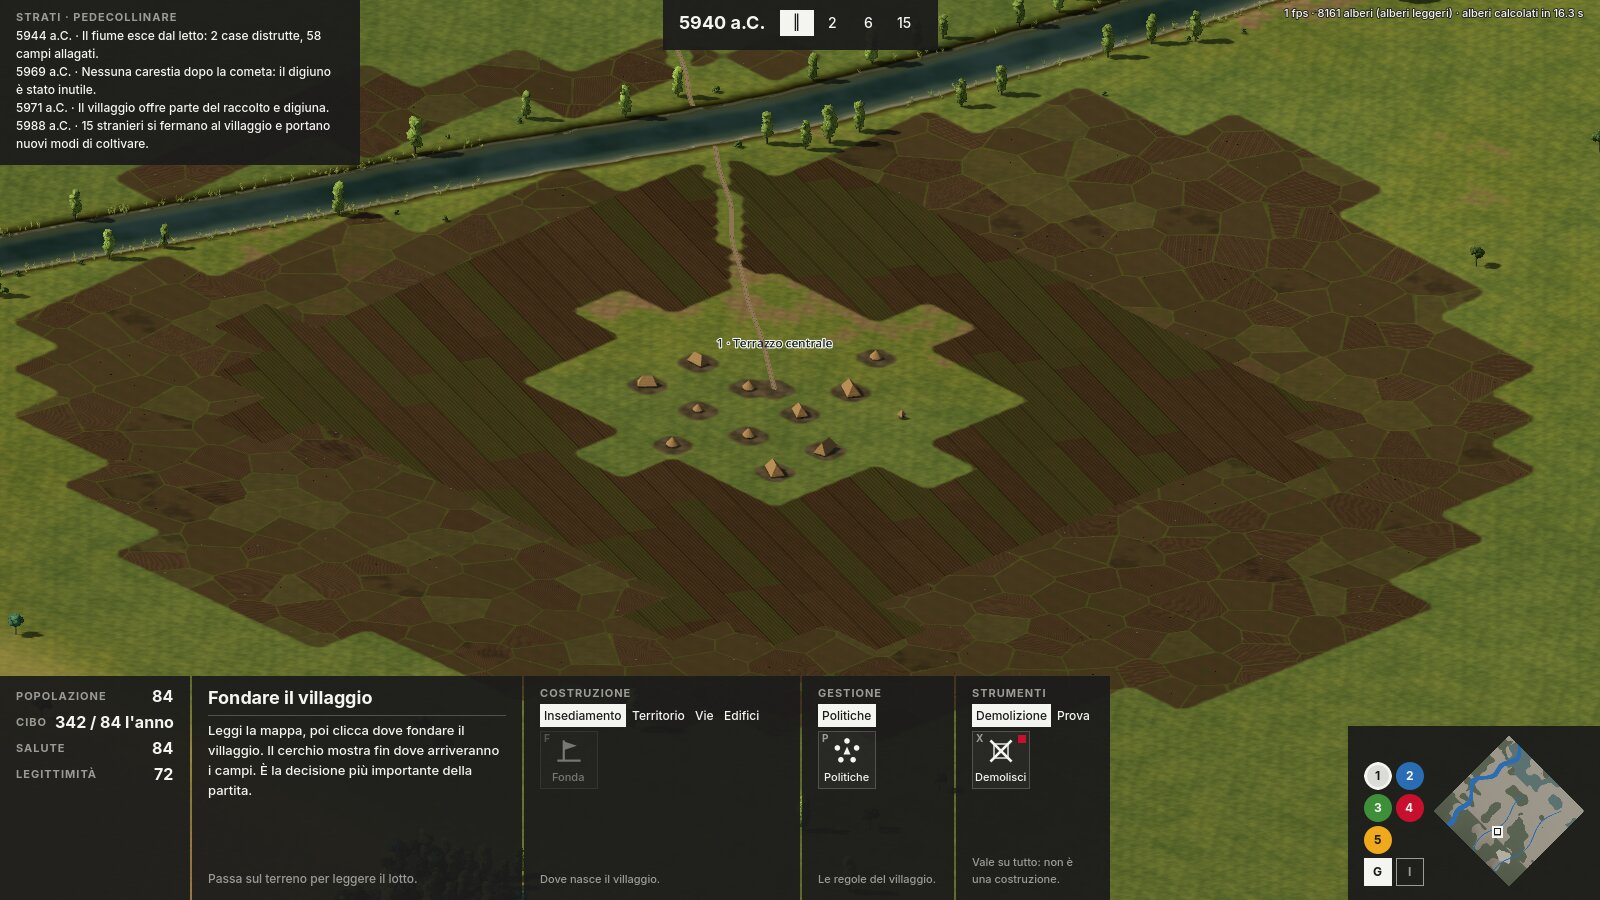
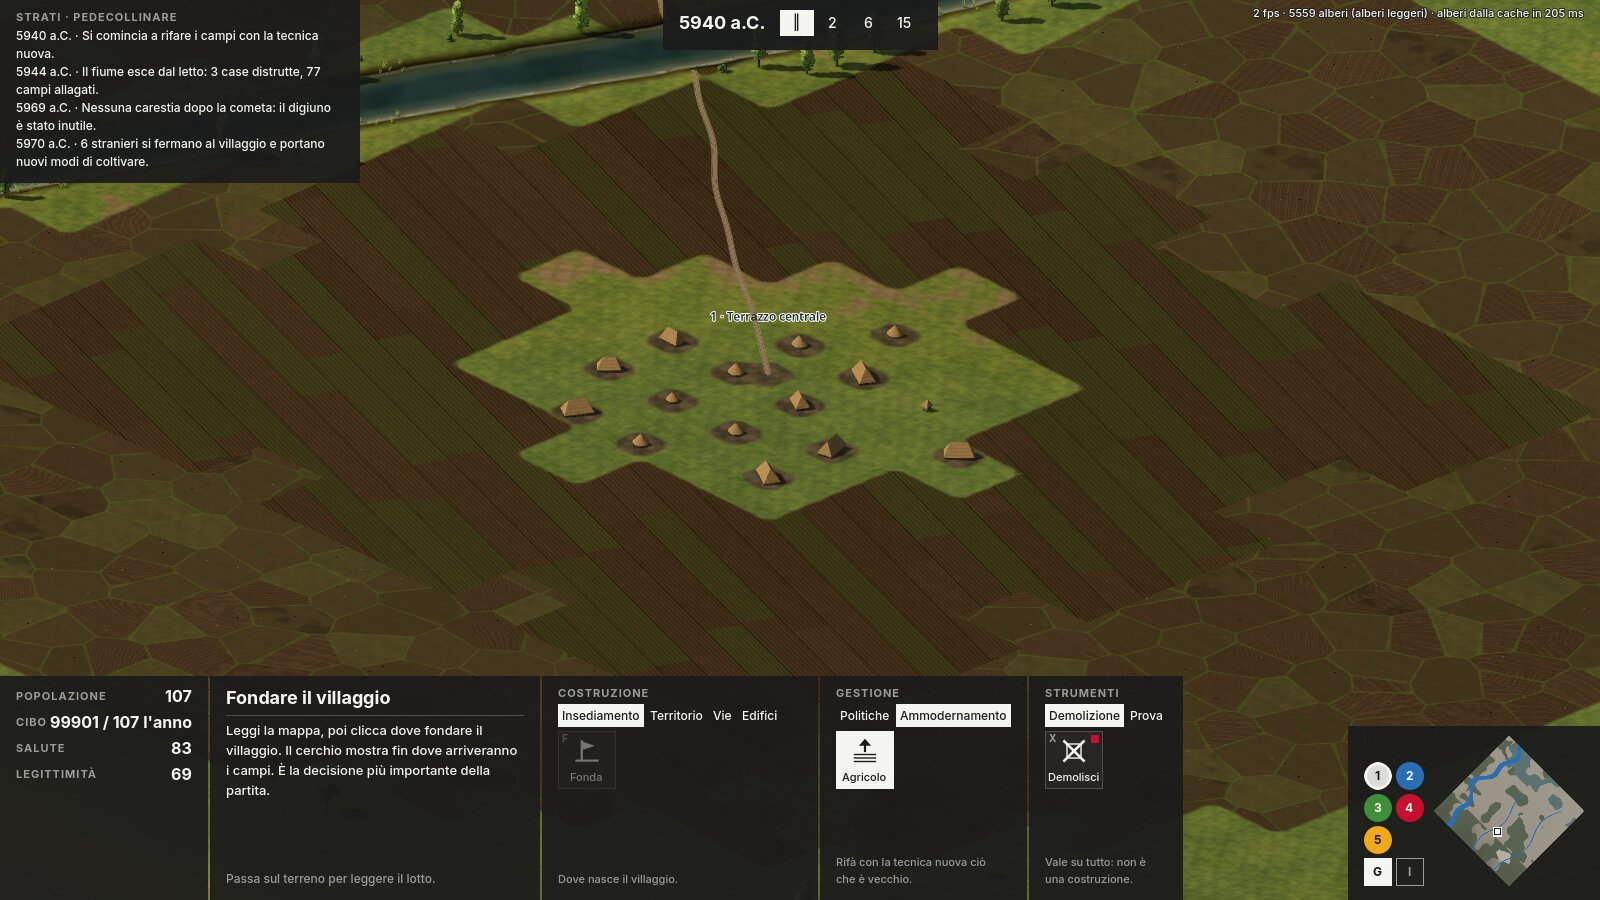
Ammodernamento nel blocco Gestione, campi fino al sentiero
- Ammodernamento come scheda di Gestione accanto a Politiche, con il
  tasto Agricolo (spento finché non ci sono campi vecchi); tolto dal
  pannello delle politiche. Settori nella simulazione.
- Campi e sentieri disegnati insieme cella per cella: niente corridoio
  d'erba a scalini lungo i sentieri tra i campi.
- Documenti, diario e verifiche aggiornati.

Claude-Session: https://claude.ai/code/session_01N4eDGqd1MBV5LM5fjUAzdo

diff --git a/docs/diario.md b/docs/diario.md
@@ -27,6 +27,8 @@ Voci più recenti in cima.
 - **Carattere Inter** nell'HUD (decisione di Fede: carattere con licenza SIL Open Font License, rispettandone le regole): file e licenza in `gioco/asset/caratteri/inter/` (con `LEGGIMI.md` su cosa chiede la licenza), nuovo `docs/licenze.md` con tutte le licenze di terze parti, regola aggiornata in `CLAUDE.md`. Verificato che il carattere di base di Godot 4.7.2 è Open Sans SemiBold, con la stessa licenza.
 - **Minimappa e mappe tematiche più piccole** (Fede: cliccabili ma non importanti, come i tasti attorno alla minimappa di Age of Empires IV): minimappa di 150 px, bollini tondi delle mappe e quadratini delle sovrapposizioni accanto, legenda sottile solo quando serve.
 - **HUD ridisposto come negli esempi di Age of Empires IV mandati da Fede** (conta la disposizione, non lo stile grafico): campo di gioco libero; in alto al centro anno e tempo, in alto a sinistra la cronaca; in basso a sinistra gli indicatori e la scheda dello strumento scelto; in basso al centro la griglia dei comandi a tasti quadrati; in basso a destra la nuova minimappa (`gioco/script/minimappa.gd`: ruotata come la vista, riquadro della camera, clic per spostarsi) con le mappe tematiche e la legenda; avvisi sopra la minimappa. Stile svizzero invariato. Dettagli in `docs/hud.md`.
+- **Ammodernamento come scheda di Gestione** (decisione di Fede: stesso livello delle politiche, poi settori agricolo, viario, abitativo…): tolto dal pannello delle politiche; ora la scheda Ammodernamento ha il tasto Agricolo (icona nuova `ammodernamento_agricolo`), spento finché non ci sono campi vecchi, invertito quando è attivo. Nella simulazione `ammodernamenti` per settore e `imposta_ammodernamento()`.
+- **Niente squadrettamento tra sentiero e campi** (segnalato da Fede): i punti di sentiero da 40 m lasciavano un corridoio d'erba a scalini tra i campi. Ora campi e sentieri si disegnano insieme cella per cella: dalla parte dei campi rispetto alla linea vera del sentiero il campo arriva fino al nastro. Verifica in `test/verifica_partita.gd`. Immagine `docs/immagini/sentiero-campi-24-11.jpg`.
 - **Fascia in basso a cinque blocchi** (decisione di Fede): Info, Descrizione, Costruzione (Insediamento, Territorio, Vie, Edifici), Gestione (Politiche), Strumenti (Demolizione, Prova). Costruzione, Gestione e Strumenti hanno tutti le schede, così il layout è pronto per le voci future; i blocchi hanno la stessa altezza. Il pannello delle politiche scorre se non c'è spazio. Immagine `docs/immagini/hud-cinque-blocchi-24-11.jpg`.
 - **Campi del villaggio lavorati a mano** (Fede: le strisce sembravano fatte da un aratro meccanico; scelte A + B): orti a zappa in appezzamenti di famiglia di 20–40 m, file corte e ondulate lungo le curve di livello, zolle, ceppi, sassi, chiazze bruciate, bordi d'erbacce appena visibili. Immagine `docs/immagini/campi-zappa-24-11.jpg`.
 - **Il campo cambia con l'epoca** (decisione di Fede, punto C): ogni campo ricorda la sua tecnica (dati in `SimVillaggio` e `UsoSuolo.tecniche`, disegno nello shader del terreno); i campi nuovi rendono di più, i vecchi restano. Nuova politica **Ammodernamento tecnologico** (sospeso/attivo): rifà un po' ogni anno i campi vecchi con la tecnica nuova pagando cibo, senza costruire niente da zero; nel villaggio è già nel pannello ma spenta. Prova con una tecnica nuova finta: `test/foto_partita.gd -- … tecniche`, immagine `docs/immagini/campi-ammodernamento-24-11.jpg` (al centro i campi rifatti, attorno quelli a zappa). Verifiche in `verifica_villaggio.gd`, `verifica_uso_suolo.gd`, `verifica_hud.gd`.
@@ -54,6 +56,7 @@ Voci più recenti in cima.
 - Fede: niente recinto per ora; nelle epoche in cui è coerente **l'abitato cresce spontaneo**.
 - Fede, **HUD:** disposizione come in Age of Empires, con i controlli delle mappe a destra e i comandi a sinistra. Lo stile è da definire.
 - Fede, **stile dell'HUD:** design svizzero (segnaletica della metro di Milano di Noorda, di New York di Vignelli), che dialoghi con l'urbanistica, non invasivo né protagonista ma di carattere; colori con parsimonia e solo con un significato.
+- Fede: l'ammodernamento va sotto Gestione, allo stesso livello delle politiche; dentro andranno i settori agricolo, viario (strade), abitativo e gli altri. Attenzione allo squadrettamento tra sentiero e campi.
 - Fede: fascia in basso a cinque blocchi (info, descrizione, costruzione, gestione, strumenti), con le schede in costruzione, gestione e strumenti; Prova dentro Strumenti. Campi del villaggio a mano (A + B). Il campo cambia con l'epoca: i vecchi restano, i nuovi rendono di più; politica di ammodernamento tecnologico che sovrascrive il tipo vecchio, già presente e spenta nel villaggio; ammodernamento un po' ogni anno (proposta di Claude approvata).
 - Fede: dove non c'è un campo il terreno è normale; i quadrati sono una griglia magnetica per porre edifici e campi, come in Cities: Skylines; Strumenti diventa l'ultimo menù a destra e funziona come gli altri. Icone, sentiero e politiche approvati.
 - Fede: lo squadrettamento dei campi va bene come guida mentre si pongono; le usanze sono **politiche**, non costruzioni, e si comincia a introdurre questo genere di scelte; iniziare a creare le icone.

diff --git a/docs/hud.md b/docs/hud.md
@@ -32,7 +32,7 @@ Il campo di gioco resta libero: l'interfaccia sta in una fascia in basso e in du
   1. **Info:** gli indicatori (popolazione, cibo, salute, legittimità), come le risorse; il valore diventa rosso quando è in pericolo.
   2. **Descrizione:** la scheda dello strumento scelto (come la scheda dell'unità selezionata): nome, cosa fa o messaggio dell'ultima azione, lettura del lotto sotto il puntatore.
   3. **Costruzione:** schede Insediamento, Territorio, Vie, Edifici.
-  4. **Gestione:** scheda Politiche (tasto P, apre il pannello delle politiche); qui andranno le prossime voci di governo.
+  4. **Gestione:** scheda Politiche (tasto P, apre il pannello delle politiche) e, allo stesso livello, scheda **Ammodernamento** (decisione di Fede) con un tasto per settore: oggi Agricolo; poi Viario (strade), Abitativo e gli altri. Il tasto di un settore è spento finché non c'è niente da ammodernare e diventa invertito quando l'ammodernamento è attivo; un clic lo avvia o lo sospende.
   5. **Strumenti:** schede Demolizione (Demolisci, X: vale su tutto e non è una costruzione) e Prova (+10 anni, Y, solo per le prove).
 
   I blocchi 3, 4 e 5 funzionano allo stesso modo, così il layout è pronto per le voci future: titolo piccolo in maiuscolo, in alto le schede, sotto i **tasti** della scheda aperta (quadrati: pittogramma al centro, nome sotto, lettera del tasto piccola e grigia nell'angolo), in fondo una riga che dice a cosa serve la scheda. Scegliere un comando, anche da tastiera, apre la sua scheda nel suo blocco senza toccare le schede degli altri blocchi. Un comando può essere uno strumento (resta scelto, si usa cliccando sulla mappa) o un'azione immediata. Il segno rosso nell'angolo vuol dire azione irreversibile. I blocchi hanno tutti la stessa altezza.
@@ -71,7 +71,7 @@ Sono una prima serie (proposta di Claude), da confermare con Fede.
 | Politiche | Gestione | apre il pannello delle regole del villaggio (P) |
 | In comune / Alle famiglie | Politiche: divisione del raccolto | il raccolto si divide tra tutti (più legittimità) o ogni famiglia tiene il suo (più raccolto, meno legittimità) |
 | Aperta / Caso per caso / Chiusa | Politiche: accoglienza degli stranieri | chi arriva resta sempre; a ogni arrivo si decide; viene sempre mandato via |
-| Sospeso / Attivo | Politiche: ammodernamento tecnologico | i campi vecchi restano; ogni anno una parte passa alla tecnica nuova pagando cibo (spenta finché non c'è una tecnica nuova) |
+| Ammodernamento · Agricolo | Gestione | avvia o sospende il rifacimento dei campi vecchi con la tecnica nuova, un po' ogni anno pagando cibo (spento finché non c'è una tecnica nuova) |
 | Demolizione, Prova | Strumenti | schede degli strumenti |
 | Demolisci | Strumenti | toglie ciò che si può demolire nel cerchio; non agisce su fiumi e paludi |
 | +10 anni | Prova | fa passare dieci anni subito, solo per provare la ricrescita del bosco |

diff --git a/docs/prototipo0-godot.md b/docs/prototipo0-godot.md
@@ -24,8 +24,8 @@ Il prototipo ragionava a celle da 160 m. Qui:
 - **Granaio:** 30 di cibo, vicino al centro; le scorte si conservano meglio.
 - **Politiche** (decisione di Fede del 24/11: le usanze sono politiche, non costruzioni; pannello a parte, tasto P). Cambiarne una dopo la fondazione costa un po' di consenso.
   - *Divisione del raccolto:* in comune (più legittimità) o alle famiglie (più raccolto).
-  - *Ammodernamento tecnologico* (decisione di Fede): non costruisce niente da zero, sovrascrive il tipo vecchio dei campi (e in futuro di strade, case e simili) con quello dell'epoca. Sospeso o attivo; attivo, ogni anno si rifà fino al 10% dei campi lavorabili, i più vicini al centro, pagando 0,8 di cibo per campo da 0,16 ha (proposta di Claude, approvata da Fede: un po' ogni anno, perché servono braccia; numeri da tarare). Non costa consenso. Nel villaggio non c'è niente da ammodernare: il tasto c'è già, spento, fino al primo cambio d'epoca.
   - *Accoglienza degli stranieri* (proposta di Claude, numeri da tarare): in media ogni 40 anni arriva un gruppo di 6–18 persone. Aperta: restano sempre; chiusa: vengono mandati via (il villaggio resta unito, un po' di consenso in più); caso per caso (all'inizio): il tempo si ferma e si decide. Accolti: più braccia, tecniche nuove (campi più fertili dell'8% per 15 anni), qualche malattia (salute −3) e un po' di attrito. Gli arrivi usano un generatore a parte, così le altre vicende restano le stesse a parità di seme.
+- **Ammodernamento tecnologico** (decisione di Fede): nel blocco Gestione, scheda Ammodernamento allo stesso livello delle politiche, un tasto per settore (oggi Agricolo; poi viario, abitativo…). Non costruisce niente da zero, sovrascrive il tipo vecchio dei campi (e in futuro di strade, case e simili) con quello dell'epoca. Attivo, ogni anno si rifà fino al 10% dei campi lavorabili, i più vicini al centro, pagando 0,8 di cibo per campo da 0,16 ha (proposta di Claude, approvata da Fede: un po' ogni anno, perché servono braccia; numeri da tarare). Non costa consenso. Nel villaggio non c'è niente da ammodernare: il tasto c'è già, spento, fino al primo cambio d'epoca.
 - **Demolisci** (X, decisione di Fede): toglie nel cerchio alberi (legname), case, campi, sentieri e granaio; il focolare al centro resta. Sul lotto di una casa demolita non rinasce una casa per 20 anni (macerie): Fede ha approvato la regola e ha precisato che vale **solo per l'abitato spontaneo**; per gli edifici voluti dal giocatore (come il granaio) non c'è attesa. Fiumi e paludi non si demoliscono.
 - **Eventi e presagi:** piene dal rischio della mappa, siccità con presagio vero (le sorgenti calano), cometa come presagio falso, primo cattivo raccolto, affollamento (allargarsi o villaggio figlio), crisi di legittimità, abbandono (le rovine restano e si può rifondare), fine dopo 500 anni con il riepilogo.
 

diff --git a/docs/resa-grafica.md b/docs/resa-grafica.md
@@ -36,6 +36,7 @@ Codice: `gioco/shader/terreno.gdshader`, `gioco/script/terreno.gd`.
 ## Sentieri e guida dei campi
 Codice: `gioco/script/vista_villaggio.gd` (`_disegna_nastri`), `gioco/shader/sentiero.gdshader`, `gioco/shader/terreno.gdshader` (`griglia_magnetica`, campi).
 - **Sentieri (24/11/2026, Fede: la versione a celle non convinceva):** nastro di 3,5 m posato 35 cm sopra il terreno lungo la linea vera del tracciato, campionato ogni 4 m e fatto serpeggiare di qualche metro con un'onda fissa per tratto. Terra battuta con grana, due solchi più scuri e bordi sfrangiati che sfumano nell'erba; la normale è sempre verso l'alto (con le facce rovesciate il nastro era illuminato da sotto e sembrava una riga nera). Sotto il nastro l'uso del suolo segna le celle come costruite (niente alberi) ma non le dipinge (`UsoSuolo.NON_DIPINTA`). Ai guadi dei torrenti il nastro si interrompe.
+- **Sentieri tra i campi** (Fede: attenzione allo squadrettamento tra sentiero e campi): un punto di sentiero è largo 40 m nella simulazione e non è un campo, quindi lasciava un corridoio d'erba a scalini. Ora la vista lavora cella per cella (10 m): le celle di un punto di sentiero confinante con dei campi si coltivano dalla parte dei campi rispetto alla linea vera del sentiero, e dentro i campi le celle sotto il nastro non si segnano come costruite. Il campo arriva fino al nastro (`VistaVillaggio._sincronizza_campi_e_sentieri`; verifica in `test/verifica_partita.gd`).
 - **Griglia magnetica:** mentre si pone qualcosa lo shader del terreno disegna, solo attorno al puntatore, le linee dei quadrati a cui lo strumento si aggancia e schiarisce quelli che verranno presi (`griglia_magnetica` = lato, scarto dell'origine, raggio; lato 0 = spenta). Campi: 40 m centrati sui punti della mappa; granaio: lotti da 20 m.
 - **Campi:** occupano le celle poste, senza bordi interni. L'aspetto dipende dalla tecnica del campo, letta da `tecniche_campi` (texture di `UsoSuolo.tecniche`, un byte per cella da 10 m, senza filtro). Zappa (villaggio): appezzamenti di circa 30 m (celle di Voronoi quasi regolari), in ognuno file corte e ondulate lungo le curve di livello (dalla normale del terreno; in piano un verso a caso), segni di zappa spezzati, zolle, stato seminato, zappato o a riposo con toni vicini, chiazze bruciate rare, ceppi e sassi solo da vicino, bordi d'erbacce sottili. Tecniche successive: per ora le strisce di circa 110 × 18 m nello stesso verso, da sostituire con il disegno di ogni epoca (aratro in croce, centuriazione, porche e solchi medievali, campi meccanici).
 

diff --git a/docs/pilastri-e-decisioni.md b/docs/pilastri-e-decisioni.md
@@ -28,7 +28,7 @@ Gestionale urbanistico-politico. Il giocatore governa una città europea verosim
 - **Tempo:** cronologia scandita da eventi storici reali (vedi Eventi). Tempo continuo con pausa e velocità regolabili (impostazione di partenza, modificabile); la simulazione avanza per anni e si ferma da sola nei momenti decisivi.
 - **Le epoche fanno da tutorial:** i sistemi si sbloccano progressivamente.
 - **Strumenti (24/11/2026):** uno strumento **Demolisci**, come in Cities: Skylines, vale per tutti gli elementi demolibili (alberi, case, strade, campi…). Non si applica agli elementi naturali non demolibili: un fiume o una palude non si demoliscono, si governano con altri strumenti (dighe, canali, deviazioni, bonifiche). Ogni lavorazione dev'essere coerente con l'epoca in corso: deviare un fiume o bonificare una palude si potrà fare con i mezzi e nei modi della propria epoca.
-- **Tecniche ed epoche (24/11/2026):** le opere hanno la tecnica della loro epoca, a cominciare dai campi (zappa, aratro in croce, centuriazione, strisce medievali, meccanica). Al cambio d'epoca ciò che c'è resta com'era; le opere nuove nascono con la tecnica nuova, che rende di più (progresso tecnologico). La politica **ammodernamento tecnologico** non costruisce niente da zero: sovrascrive il tipo vecchio con il nuovo, un po' ogni anno, con un costo in risorse proporzionale a quanto c'è da rifare.
+- **Tecniche ed epoche (24/11/2026):** le opere hanno la tecnica della loro epoca, a cominciare dai campi (zappa, aratro in croce, centuriazione, strisce medievali, meccanica). Al cambio d'epoca ciò che c'è resta com'era; le opere nuove nascono con la tecnica nuova, che rende di più (progresso tecnologico). L'**ammodernamento tecnologico** (nel blocco Gestione, allo stesso livello delle politiche, diviso per settori: agricolo, viario, abitativo…) non costruisce niente da zero: sovrascrive il tipo vecchio con il nuovo, un po' ogni anno, con un costo in risorse proporzionale a quanto c'è da rifare.
 - **Materiali (24/11/2026):** edifici e strade hanno le qualità dei loro materiali, nascoste al giocatore. Una casa lunga (legno e argilla) tolta lascia ricrescere il bosco nelle condizioni giuste; un'autostrada (asfalto) sigilla il suolo per sempre, ma resta la memoria di ciò che c'era.
 - **Produzione:** Fede + Claude, budget zero. Godot 4.7.2 (renderer Compatibilità), Blender 5.3, asset creati da script o con licenza CC0 (stile verosimile: vedi `asset.md`), Git/GitHub.
 
